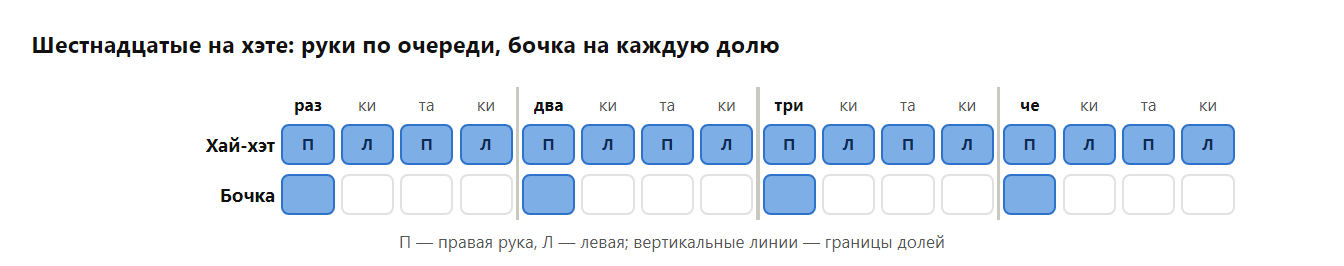
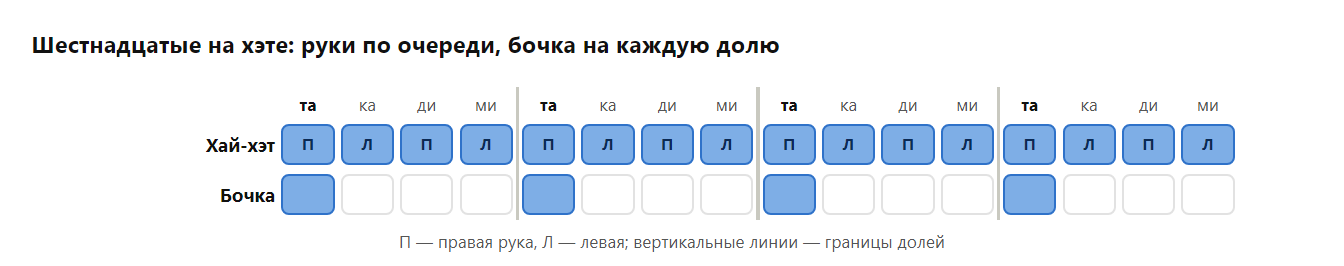
Глава 3: шестнадцатые считаются по Takadimi, «та-ка-ди-ми»

diff --git a/03-ritm-i-metronom.md b/03-ritm-i-metronom.md
@@ -20,9 +20,9 @@
 | --- | --- | --- | --- |
 | **Четверти** (quarter notes) | 1 | 4 | «раз, два, три, четыре» |
 | **Восьмые** (eighth notes) | 2 | 8 | «раз-и, два-и, три-и, четыре-и» |
-| **Шестнадцатые** (sixteenth notes) | 4 | 16 | «раз-ки-та-ки, два-ки-та-ки…» |
+| **Шестнадцатые** (sixteenth notes) | 4 | 16 | «та-ка-ди-ми, та-ка-ди-ми…» |
 
-Названия идут от долей целой ноты: четверть — её одна четвёртая, восьмая — одна восьмая. В такте из четырёх долей как раз четыре четверти, восемь восьмых и шестнадцать шестнадцатых. У восьмых «и» стоит ровно посередине доли. У шестнадцатых доля делится на четыре слога «раз-ки-та-ки»: середина доли приходится на «та», а «ки» — между ними. На быстром темпе длинное «четыре» сокращают до «че»: «че-ки-та-ки». Главное — чтобы все четыре слога были одинаковой длины.
+Названия идут от долей целой ноты: четверть — её одна четвёртая, восьмая — одна восьмая. В такте из четырёх долей как раз четыре четверти, восемь восьмых и шестнадцать шестнадцатых. У восьмых «и» стоит ровно посередине доли. У шестнадцатых каждая доля проговаривается «та-ка-ди-ми»: «та» звучит на самой доле, вместе со щелчком метронома, «ди» — посередине, там же, где «и» у восьмых, а «ка» и «ми» — между ними. Номер доли при этом не произносят, его отсчитывает метроном. Вариантов счёта шестнадцатых много, и единого правила нет (откуда они взялись — в справке ниже). В книге — «та-ка-ди-ми», но если вы уже привыкли к другому, например к «ти-ли-ти-ли» из музыкальной школы, считайте по-своему: важны не слоги, а то, чтобы все четыре были одинаковой длины.
 
 ![Четверти, восьмые и шестнадцатые в одном такте со счётом](images/03-delenie-doli.png)
 
@@ -32,7 +32,7 @@
 
 > 📜 **Историческая справка: откуда слоги для счёта.** Проговаривать ритм слогами придумали давно: в Южной Индии для этого есть целое искусство — [коннакол](https://en.wikipedia.org/wiki/Konnakol) (статья на англ.). В Европе в XIX веке французы Пьер Галлен, Эме Пари и Эмиль Шеве дали длительностям слоговые имена: четверть — «та», две восьмые — «та-те», четыре шестнадцатые — «та-фа-те-фе» ([система Галлена — Пари — Шеве](https://en.wikipedia.org/wiki/Galin-Paris-Chev%C3%A9_system), статья на англ.). Венгерский композитор [Золтан Кодай](https://ru.wikipedia.org/wiki/Кодай,_Золтан) переделал их в «та», «ти-ти» и «ти-ри-ти-ри»; по его системе детей учат ритму во многих странах.
 >
-> В США [считают](https://en.wikipedia.org/wiki/Counting_(music)) «1 e & a»: числа стоят на долях, «&» (and, «и») — посередине, «e» и «a» — на шестнадцатых. В 1996 году американские преподаватели Ричард Хоффман, Уильям Пелто и Джон Уайт предложили систему [Takadimi](https://en.wikipedia.org/wiki/Takadimi) (статья на англ.) со слогами «та-ка-ди-ми», заимствовав идею у индийской ритмики. В России для восьмых принят счёт «раз-и», а в детских музыкальных школах их часто проговаривают по-кодаевски, «ти-ти». Для шестнадцатых единого счёта нет: в одних пособиях «ти-ли-ти-ли», в других «ту-ру-ту-ру» или «ти-ри». В этой книге — «раз-ки-та-ки»: число остаётся на доле, а короткие слоги легко проговаривать быстро.
+> В США [считают](https://en.wikipedia.org/wiki/Counting_(music)) «1 e & a»: числа стоят на долях, «&» (and, «и») — посередине, «e» и «a» — на шестнадцатых. В 1996 году американские преподаватели Ричард Хоффман, Уильям Пелто и Джон Уайт предложили систему [Takadimi](https://en.wikipedia.org/wiki/Takadimi) (статья на англ.) со слогами «та-ка-ди-ми», заимствовав идею у индийской ритмики. В России для восьмых принят счёт «раз-и», а в детских музыкальных школах их часто проговаривают по-кодаевски, «ти-ти». Для шестнадцатых единого счёта нет: в одних пособиях «ти-ли-ти-ли», в других «ту-ру-ту-ру» или «ти-ри». В этой книге шестнадцатые считаются по Takadimi: короткие слоги легко проговаривать быстро, а «та» всегда приходится на долю.
 
 Секвенсор работает с теми же делениями. В Circuit Tracks каждая доля делится на четыре **шага** (steps), то есть шаг — это шестнадцатая. В такте 4 доли по 4 шага — 16 шагов, именно поэтому у большинства грувбоксов 16 кнопок или пэдов для шагов.
 
@@ -144,7 +144,7 @@
 
 ### Шаг 6. Шестнадцатые
 
-Поставьте метроном на 60 BPM. Играйте по хай-хэту шестнадцатые, чередуя руки: правая, левая, правая, левая — и считайте «раз-ки-та-ки, два-ки-та-ки». Правая рука всегда попадает на число и «та», левая — на «ки». Когда пойдёт ровно, добавьте бочку на каждую долю.
+Поставьте метроном на 60 BPM. Играйте по хай-хэту шестнадцатые, чередуя руки: правая, левая, правая, левая — и считайте «та-ка-ди-ми» на каждую долю. Правая рука всегда попадает на «та» и «ди», левая — на «ка» и «ми». Когда пойдёт ровно, добавьте бочку на каждую долю.
 
 ![Шестнадцатые на хэте поочерёдно руками, бочка на каждую долю](images/03-shestnadtsatye.png)
 

diff --git a/99-slovar.md b/99-slovar.md
@@ -103,7 +103,7 @@
 | **Четверть** (quarter note) | длительность в одну **долю**: четыре четверти на **такт**. Считается «раз, два, три, четыре». |
 | **Четыре на пол** (four on the floor) | **бит**, в котором **бочка** бьёт на каждую **долю**. Основа диско и хауса. |
 | **Шаг** (step) | одна клетка **секвенсора**, четверть **доли**. 16 шагов = один **такт**. На шаг ставится удар, нота или **пауза**. |
-| **Шестнадцатая** (sixteenth note) | четверть **доли**: 16 на **такт**. Считается «раз-ки-та-ки, два-ки-та-ки…». На Circuit Tracks один **шаг** — это шестнадцатая. |
+| **Шестнадцатая** (sixteenth note) | четверть **доли**: 16 на **такт**. Считается «та-ка-ди-ми» на каждую **долю**. На Circuit Tracks один **шаг** — это шестнадцатая. |
 | **Электронная ударная установка** (electronic drum kit) | резиновые **пэды** и педали вместо барабанов и тарелок; звук берётся из памяти и идёт в наушники или колонки. |
 
 ---
